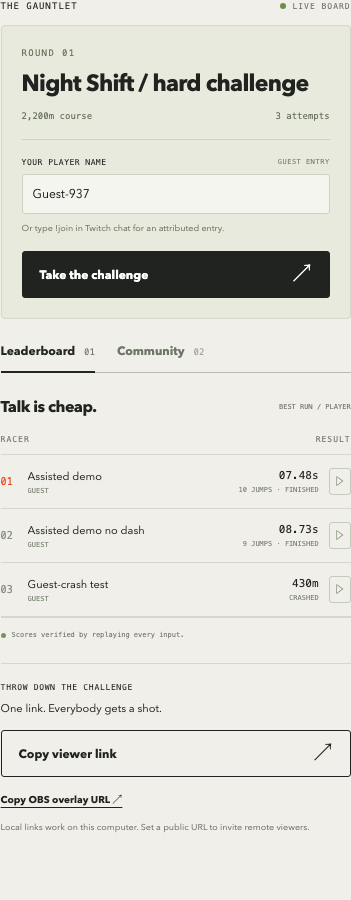
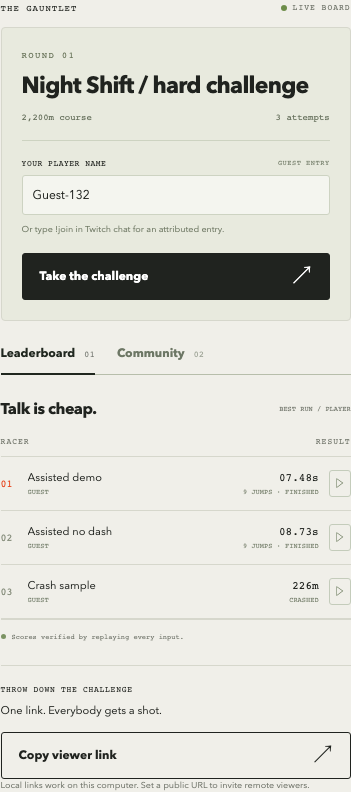
Add chat announcements, moderation, /play, and fix replay and phone runs
The bot now posts when a challenge is published and when a finished run
takes the lead, with a chat-wide !challenge cooldown and a send budget.
Hosts can remove a player from a board, and guest names pass a basic
filter. /play redirects to the active challenge.

Replays no longer overwrite the chase ghost or leave stale labels, and
the HUD follows them. Runs and replays scroll the game into view on
phones, which previously saved crashes the player never saw.

The hard course opens with a small crate and smaller early walls. Hazards
past the finish line were undrawn but could still end a run; courses after
version 1 now ignore them, while version 1 keeps its replays exact.

diff --git a/public/app.js b/public/app.js
@@ -11,7 +11,8 @@ if (overlayMode) $('overlay').hidden = false;
 let info, challenge, isHost = false, mode = viewerId ? 'challenge' : 'practice';
 let sim = initial(), map = world(sim.seed, sim.version), finish = map.finish, startState = { ...sim };
 let running = false, starting = false, raceTicket, inputs = [], history = [], savedMoment = null;
-let keys = { jump: false, dash: false }, ghost = null, ghostName = '', replayOnly = false, replayFrame = 0;
+let keys = { jump: false, dash: false }, ghost = null, ghostName = '', ghostRunId = null;
+let replayOnly = false, replayFrame = 0, replayTrace = null, replayName = '';
 let attempts = 0, toastTimer, connectionLost = false, refreshSequence = 0, playerSession;
 let joinToken = new URLSearchParams(location.search).get('join');
 let currentRunName = '';
@@ -47,9 +48,31 @@ function setMode(next) {
   updateHud();
 }
 function updateHud() {
-  $('time').replaceChildren(document.createTextNode(formatTime((sim.frame - startState.frame) / 60)), text('span', 's'));
-  $('distance').replaceChildren(document.createTextNode(String(Math.max(0, Math.round(sim.x - startState.x))).padStart(4, '0')), text('span', 'm'));
-  $('energy-value').textContent = `${Math.round(sim.energy)}%`; $('energy-fill').style.width = `${sim.energy}%`;
+  const frame = replayOnly && replayTrace ? Math.min(replayFrame, replayTrace.length - 1) : null;
+  const seconds = frame === null ? (sim.frame - startState.frame) / 60 : frame / 60;
+  const distance = frame === null ? sim.x - startState.x : replayTrace[frame].x - replayTrace[0].x;
+  const energy = frame === null ? sim.energy : replayTrace[frame].energy;
+  $('time').replaceChildren(document.createTextNode(formatTime(seconds)), text('span', 's'));
+  $('distance').replaceChildren(document.createTextNode(String(Math.max(0, Math.round(distance))).padStart(4, '0')), text('span', 'm'));
+  $('energy-value').textContent = `${Math.round(energy)}%`; $('energy-fill').style.width = `${energy}%`;
+}
+// Phones stack the game above the entry form, so a run could otherwise start off-screen.
+function showGame() {
+  const arena = document.querySelector('.arena'), controls = document.querySelector('.touch-controls');
+  const top = arena.getBoundingClientRect().top;
+  const bottom = (controls.offsetParent ? controls : arena).getBoundingClientRect().bottom;
+  if (top >= 0 && bottom <= window.innerHeight) return;
+  arena.scrollIntoView({ block: 'start', behavior: matchMedia('(prefers-reduced-motion: reduce)').matches ? 'auto' : 'smooth' });
+}
+function runResult(run) { return run.completed ? `${formatTime(run.seconds)}s` : `${Math.floor(run.distance)}m`; }
+function showGhostLabel() {
+  const top = challenge?.leaderboard[0];
+  $('ghost-label').textContent = !top ? 'Ghost replay available after the first submitted run'
+    : ghostRunId === top.id ? `Ghost to beat: ${ghostName} · ${runResult(top)}` : 'Ghost unavailable. Scores are still saved.';
+}
+function endReplay() {
+  replayOnly = false; replayTrace = null; replayName = '';
+  setMode('challenge'); showGhostLabel();
 }
 function renderScores(c) {
   const list = $('scores'); list.replaceChildren();
@@ -61,7 +84,13 @@ function renderScores(c) {
     const result = text('span', run.completed ? `${formatTime(run.seconds)}s` : `${Math.floor(run.distance)}m`, 'result'); result.append(text('small', run.completed ? `${run.jumps} JUMPS · FINISHED` : 'CRASHED'));
     const watch = text('button', '▷', 'replay-button'); watch.setAttribute('aria-label', `Watch ${run.name}'s replay`);
     watch.addEventListener('click', () => watchReplay(c.id, run.id).catch(e => toast(e.message)));
-    row.append(racer, result, watch); list.append(row);
+    row.append(racer, result, watch);
+    if (isHost) {
+      const remove = text('button', '×', 'replay-button remove-button'); remove.setAttribute('aria-label', `Remove ${run.name} from the board`);
+      remove.addEventListener('click', () => removeRun(c.id, run).catch(e => toast(e.message)));
+      row.append(remove);
+    }
+    list.append(row);
   });
 }
 function renderOverlay(c) {
@@ -76,13 +105,15 @@ function renderOverlay(c) {
 }
 async function loadGhost(c) {
   const top = c.leaderboard[0];
-  if (!top) { ghost = null; ghostName = ''; $('ghost-label').textContent = 'Ghost replay available after the first submitted run'; return; }
-  try {
-    const data = await api(`/api/replays/${c.id}/${top.id}`);
-    if (challenge?.id !== c.id) return;
-    ghost = data.trace; ghostName = data.name;
-    $('ghost-label').textContent = `Ghost to beat: ${data.name} · ${formatTime(top.seconds)}s`;
-  } catch { $('ghost-label').textContent = 'Ghost unavailable. Scores are still saved.'; }
+  ghost = null; ghostName = ''; ghostRunId = null;
+  if (top) {
+    try {
+      const data = await api(`/api/replays/${c.id}/${top.id}`);
+      if (challenge?.id !== c.id) return;
+      ghost = data.trace; ghostName = data.name; ghostRunId = top.id;
+    } catch {}
+  }
+  if (!replayOnly) showGhostLabel();
 }
 async function refresh(data) {
   info = data;
@@ -107,7 +138,6 @@ async function refresh(data) {
     if (challenge?.id === c.id) { challenge = c; renderScores(c); }
     return;
   }
-  const oldBest = challenge?.leaderboard[0]?.id;
   challenge = c;
   $('challenge-title').textContent = c.title;
   $('challenge-number').textContent = `ROUND ${String(Math.max(1, data.history.length - data.history.findIndex(x => x.id === c.id))).padStart(2, '0')}`;
@@ -117,12 +147,12 @@ async function refresh(data) {
   else $('share-note').textContent = 'Share this link with your viewers. They can play in their browser.';
   renderScores(c); renderOverlay(c);
   if (oldId !== c.id && mode === 'challenge') setMode('challenge');
-  if (oldId !== c.id || oldBest !== c.leaderboard[0]?.id) await loadGhost(c);
+  if (oldId !== c.id || ghostRunId !== (c.leaderboard[0]?.id ?? null)) await loadGhost(c);
 }
 
 async function startRun() {
   if (!challenge || running || starting) return;
-  if (replayOnly) { replayOnly = false; await refresh(info); }
+  if (replayOnly) { endReplay(); await refresh(info); }
   starting = true; $('start').disabled = true;
   try {
     if (mode === 'challenge') {
@@ -136,7 +166,7 @@ async function startRun() {
     try { localStorage.setItem('btm-name', $('player-name').value); } catch {}
     map = world(sim.seed, sim.version); startState = { ...sim }; inputs = []; history = [{ ...sim }];
     keys = { jump: false, dash: false }; savedMoment = null; $('publish').disabled = true;
-    $('game-screen').hidden = true; $('countdown').hidden = false;
+    $('game-screen').hidden = true; $('countdown').hidden = false; showGame();
     for (const value of ['3','2','1']) { $('countdown').textContent = value; await new Promise(resolve => setTimeout(resolve, 450)); }
     $('countdown').hidden = true; starting = false; running = true; attempts++; lastTime = performance.now(); accumulator = 0;
     canvas.focus({ preventScroll: true });
@@ -182,16 +212,23 @@ async function watchReplay(cid, rid) {
   const data = await api(`/api/replays/${cid}/${rid}`);
   if (challenge.id !== cid) return;
   mode = 'challenge'; setMode('challenge');
-  ghost = data.trace; ghostName = data.name; replayOnly = true; replayFrame = 0;
+  replayTrace = data.trace; replayName = data.name; replayOnly = true; replayFrame = 0; accumulator = 0;
   $('game-screen').hidden = true; $('game-mode').textContent = 'GHOST REPLAY';
   $('ghost-label').textContent = `Watching ${data.name}'s recorded run`;
+  updateHud(); showGame();
   canvas.focus({ preventScroll: true });
+}
+async function removeRun(cid, run) {
+  if (!window.confirm(`Remove ${run.name} and all of their runs from this board?`)) return;
+  await api('/api/runs/remove', { challengeId: cid, runId: run.id });
+  await refresh(await api('/api/state'));
+  toast(`${run.name} was removed from the board.`);
 }
 
 function draw() {
   const W = 1000, H = 460;
   ctx.clearRect(0, 0, W, H);
-  const camera = Math.max(0, (replayOnly && ghost ? ghost[Math.min(replayFrame, ghost.length - 1)].x : sim.x) - 180);
+  const camera = Math.max(0, (replayOnly && replayTrace ? replayTrace[Math.min(replayFrame, replayTrace.length - 1)].x : sim.x) - 180);
   const gradient = ctx.createLinearGradient(0, 0, 0, H); gradient.addColorStop(0, '#17221e'); gradient.addColorStop(1, '#233329'); ctx.fillStyle = gradient; ctx.fillRect(0,0,W,H);
   // Warehouse skyline, parallax gantries, and a perspective floor.
   ctx.strokeStyle = '#9ab8840b'; ctx.lineWidth = 1;
@@ -235,9 +272,10 @@ function draw() {
     if(!isGhost){ctx.fillStyle='#16251b';ctx.fillRect(x+17,y+9,4,3);}
     ctx.restore();
   };
-  if (mode === 'challenge' && ghost) {
+  const shownGhost = replayOnly ? replayTrace : mode === 'challenge' ? ghost : null;
+  if (shownGhost) {
     const frame = replayOnly ? replayFrame : Math.max(0, sim.frame-startState.frame);
-    if (frame < ghost.length) {drawPlayer(ghost[frame],true);const p=ghost[frame];ctx.fillStyle='#9fc1d99c';ctx.font='9px monospace';ctx.fillText(replayOnly ? ghostName : 'GHOST',p.x-camera-2,p.y-12);}
+    if (frame < shownGhost.length) {const p=shownGhost[frame];drawPlayer(p,true);ctx.fillStyle='#9fc1d99c';ctx.font='9px monospace';ctx.fillText(replayOnly ? replayName : 'GHOST',p.x-camera-2,p.y-12);}
   }
   if (!replayOnly) drawPlayer(sim);
   if(sim.status==='crashed'&&!replayOnly){ctx.strokeStyle='#ff7955';ctx.lineWidth=2;for(let n=0;n<8;n++){const a=n*Math.PI/4;ctx.beginPath();ctx.moveTo(sim.x-camera+13+Math.cos(a)*28,sim.y+16+Math.sin(a)*28);ctx.lineTo(sim.x-camera+13+Math.cos(a)*37,sim.y+16+Math.sin(a)*37);ctx.stroke();}}
@@ -247,7 +285,7 @@ let lastTime=performance.now(), accumulator=0, lastPaint=0;
 function loop(now) {
   const dt=Math.min(100,now-lastTime);lastTime=now;
   if(running){accumulator+=dt;while(accumulator>=1000/60&&running){const input=(keys.jump?1:0)|(keys.dash?2:0);inputs.push(input);sim=step(sim,input,map,finish);if(sim.status==='running'){history.push({...sim});if(history.length>240)history.shift();}accumulator-=1000/60;if(sim.status!=='running')endRun();else if(inputs.length>=MAX_TICKS){running=false;toast('Run limit reached. Start again.');screen('TIME OUT','Fresh start?','This run exceeded the time limit.');}} updateHud();}
-  if(replayOnly){accumulator+=dt;while(accumulator>=1000/60){replayFrame++;accumulator-=1000/60;if(replayFrame>=ghost.length){replayOnly=false;screen('GHOST REPLAY COMPLETE','Your move.',`That was ${ghostName}’s run. Now chase it.`);refresh(info);break;}}}
+  if(replayOnly){accumulator+=dt;while(replayOnly&&accumulator>=1000/60){replayFrame++;accumulator-=1000/60;if(replayFrame>=replayTrace.length){const name=replayName;endReplay();screen('GHOST REPLAY COMPLETE','Your move.',`That was ${name}’s run. Now chase it.`);refresh(info);}}if(replayOnly)updateHud();}
   if(!overlayMode&&(running||replayOnly||now-lastPaint>100)){draw();lastPaint=now;}requestAnimationFrame(loop);
 }
 

diff --git a/public/engine.js b/public/engine.js
@@ -8,6 +8,11 @@ export function world(seed = 41, version = VERSION) {
   const rnd = () => { s = (Math.imul(s, 1664525) + 1013904223) >>> 0; return s / 4294967296; };
   const obstacles = [];
   let x = version === 1 ? 360 : 340;
+  if (version >= 2) {
+    // A small opening crate teaches the jump before the course gets hard.
+    obstacles.push({ x, w: 28, h: 30 });
+    x += 220;
+  }
   while (x < 3400) {
     if (version === 1) {
       // Preserve the original layout exactly for saved challenges and replays.
@@ -17,7 +22,9 @@ export function world(seed = 41, version = VERSION) {
     }
     const kind = Math.floor(rnd() * 3);
     if (kind === 0) {
-      obstacles.push({ x, w: 32 + Math.floor(rnd() * 9), h: 62 + Math.floor(rnd() * 12) });
+      const w = 32 + Math.floor(rnd() * 9), h = 62 + Math.floor(rnd() * 12);
+      // Walls reach full size only after the first stretch of the course.
+      obstacles.push(x < 1000 ? { x, w: 32, h: 62 } : { x, w, h });
     } else if (kind === 1) {
       const width = 23 + Math.floor(rnd() * 5), gap = 15 + Math.floor(rnd() * 7);
       obstacles.push({ x, w: width, h: 25 + Math.floor(rnd() * 7) });
@@ -56,7 +63,9 @@ export function step(s, input, map = world(s.seed, s.version), finish = map.fini
   if (y >= FLOOR - PLAYER.h) { y = FLOOR - PLAYER.h; vy = 0; }
   const energy = Math.max(0, Math.min(100, s.energy + (boosting ? -1.8 : 0.65)));
   let status = x >= finish ? 'finished' : 'running';
-  if (map.obstacles.some(o => x + PLAYER.w > o.x && x < o.x + o.w && y + PLAYER.h > FLOOR - o.h && y < FLOOR)) status = 'crashed';
+  // Version 1 keeps its original collisions so saved replays stay exact. Later courses ignore hazards past the finish, which are never drawn.
+  const hazards = s.version === 1 ? map.obstacles : map.obstacles.filter(o => o.x <= finish);
+  if (hazards.some(o => x + PLAYER.w > o.x && x < o.x + o.w && y + PLAYER.h > FLOOR - o.h && y < FLOOR)) status = 'crashed';
   return { ...s, x, y, vy, energy, frame: s.frame + 1, jumps, jumpHeld: jump, status };
 }
 
@@ -65,11 +74,11 @@ export function replay(snapshot, inputs, finish = world(snapshot.seed, snapshot.
     || inputs.some(n => !Number.isInteger(n) || n < 0 || n > 3)) throw new Error('Invalid run data.');
   const map = world(snapshot.seed, snapshot.version);
   let state = { ...snapshot };
-  const trace = [{ x: state.x, y: state.y }];
+  const trace = [{ x: state.x, y: state.y, energy: state.energy }];
   for (let i = 0; i < inputs.length; i++) {
     if (state.status !== 'running') throw new Error('Run continues after its finish.');
     state = step(state, inputs[i], map, finish);
-    trace.push({ x: state.x, y: state.y });
+    trace.push({ x: state.x, y: state.y, energy: state.energy });
   }
   if (state.status === 'running') throw new Error('Finish or crash before submitting.');
   return { state, trace, ticks: inputs.length, seconds: inputs.length / 60, distance: Math.min(finish - snapshot.x, state.x - snapshot.x), completed: state.status === 'finished', jumps: state.jumps - snapshot.jumps };

diff --git a/public/style.css b/public/style.css
@@ -3,3 +3,4 @@
 body.broadcast-mode .intro,body.broadcast-mode .how-it-works,body.broadcast-mode footer{display:none}body.broadcast-mode main{padding-top:24px;max-width:1600px}body.broadcast-mode .topbar{height:62px}body.broadcast-mode .workspace{gap:26px}body.broadcast-mode .share-card{margin-top:18px}body.broadcast-mode .host-tools{margin-top:12px}
 
 .arena-levels{display:flex;align-items:center;gap:10px}.difficulty-chip{font:9px var(--mono,monospace);letter-spacing:.08em;color:#ff9273;border:1px solid #ff613b55;padding:6px 8px;white-space:nowrap}.board-tabs{display:flex;border-bottom:1px solid #b7beab;margin-top:24px;gap:22px}.board-tabs button{appearance:none;border:0;border-bottom:2px solid transparent;margin-bottom:-1px;padding:0 0 12px;background:none;cursor:pointer;font:700 12px var(--sans,sans-serif);color:#6d7765}.board-tabs button[aria-selected=true]{border-bottom-color:#20271f;color:#20271f}.board-tabs button span{font:9px var(--mono,monospace);margin-left:6px;font-weight:400;opacity:.6}.board-tabs button:focus-visible{outline:2px solid #ff613b;outline-offset:4px}.community-panel{padding-top:22px}.community-panel h3{font-size:27px;line-height:1.05;letter-spacing:-.055em;margin:14px 0}.community-panel>p{font-size:12px;line-height:1.65;color:#737d6a;margin:0 0 20px}.community-tags{display:grid;gap:9px}.community-tags>div{display:flex;align-items:center;gap:12px;border:1px solid #ccd0c0;padding:13px 12px;color:#20271f;background:#e9ecdf}.tag-avatar{display:grid;place-items:center;width:35px;height:35px;background:#25342a;color:#d6ff7e;font:11px var(--mono,monospace)}.community-tags strong{display:block;font-size:14px;letter-spacing:-.025em}.community-tags small{display:block;font:8px var(--mono,monospace);letter-spacing:.1em;color:#78836b;margin-top:5px}.community-note{display:block;margin:13px 0 0;font-size:10px;line-height:1.6;color:#737d6a}.community-invite{border-top:1px solid #ccd0c0;margin-top:22px;padding-top:18px}.community-invite strong{font-size:12px}.community-invite p{font-size:11px;line-height:1.65;color:#737d6a}.community-invite code{color:#263b26}[role=tabpanel][hidden]{display:none}@media(max-width:600px){.difficulty-chip{font-size:7px;padding:5px}.arena-levels{gap:5px}.community-panel h3{font-size:28px}}
+.remove-button{color:#a44a32;line-height:1}

diff --git a/README.md b/README.md
@@ -10,7 +10,7 @@ The idea is to give Twitch communities another way to participate in the moment 
 
 ![The playable challenge and community leaderboard](docs/images/challenge.png)
 
-**[Play the hosted game](https://beat-the-moment-35-211-225-40.sslip.io)** · [GCP deployment](deploy/GCP.md)
+**[Play the live challenge](https://beat-the-moment-35-211-225-40.sslip.io/play)** · [GCP deployment](deploy/GCP.md)
 
 [Watch the narrated prototype draft](demo/beat-this-moment-draft.mp4) · [Demo outline](demo/DEMO-SCRIPT.md) · [Verification notes](QA.md)
 
@@ -53,15 +53,15 @@ flowchart LR
 
 ## Gameplay gallery
 
-**The hard course, captured directly from the running game.** The current round, Night Shift, is a 2,200m course with 13 hazards: tall walls, wide barriers, and double stacks with tight jump windows. The original 1,600m, six-hazard course is kept as course version 1, so earlier challenge links and ghost replays still play exactly as recorded. This is the start of the assisted demo run's ghost replay.
+**The hard course, captured directly from the running game.** The current round, Night Shift, is a 2,200m course with 12 hazards: a small opening crate to teach the jump, then tall walls, wide barriers, and double stacks with tight jump windows. The original 1,600m, six-hazard course is kept as course version 1, so earlier challenge links and ghost replays still play exactly as recorded.
 
 ![The Neon Freight hard course with the leading ghost](docs/images/gameplay.png)
 
-**A winning run to chase.** The ghost replay follows the recorded inputs through the final double stack toward the finish. The assisted demo run, an input search over the real simulation and labeled as such on the board, completed the course in 7.48 seconds with ten jumps.
+**A winning run to chase.** The ghost replay follows the recorded inputs through the final hazards toward the finish.
 
 ![The winning ghost approaching the finish line](docs/images/ghost-replay.png)
 
-**The community board.** Completed runs rank above crashes; each entry can be replayed.
+**The community board.** Completed runs rank above crashes; each entry can be replayed. These screenshots come from a local test server, with sample runs that are labeled as such: an input search over the real simulation and a deliberate crash. The hosted board holds only real attempts.
 
 ![Challenge entry and server-verified community leaderboard](docs/images/leaderboard.png)
 
@@ -138,9 +138,13 @@ The game works without Twitch. To demonstrate the live integration:
    - `!challenge`: replies with the active challenge link.
    - `!join`: replies with a single-use, ten-minute entry link attributed to the chatter. Subsequent retries in the same page retain that identity for one hour.
 
+The bot also posts on its own when you publish a challenge and when a finished run takes the lead on the active challenge. Lead announcements are spaced at least 30 seconds apart and name the latest leader. To keep a busy chat readable, `!challenge` replies at most once every 15 seconds, since everyone can see the link, and all bot messages share a budget of 15 every 30 seconds.
+
 The integration uses a broadcaster user access token with `user:read:chat user:write:chat`, an EventSub WebSocket subscription to `channel.chat.message`, and the Send Chat Message API. Tokens are validated at connection and every 55 minutes and refreshed when needed. By default they stay in memory and are discarded on restart. Set `TWITCH_TOKEN_FILE` and `TWITCH_OWNER_CHANNEL` to save them in a private file and restore the owning broadcaster after restart. The file must be outside the public directory; it is written with mode 0600, and disconnecting Twitch deletes it. Browser host sessions still require sign-in after a restart. EventSub reconnects after interruptions; missed Twitch events are not replayed. Chat replies have a per-user ten-second cooldown and are deduplicated.
 
 Set `TWITCH_OWNER_CHANNEL` to your owning Twitch login. With this set, the owner can sign in directly with Twitch, without copying the host key into the browser. The callback checks a short-lived HttpOnly OAuth nonce cookie and a single-use state, validates the token and scopes with Twitch, and checks the exact owner login before granting a host session. Other Twitch accounts cannot take over the broadcaster connection or host desk. Leave this setting empty to require an existing host session before starting Twitch authorization.
+
+**Moderation:** guest names pass a basic filter for common slurs, and `BLOCKED_NAMES` adds your own comma-separated terms. The filter will miss things, so the host desk shows a remove button beside each board entry. It removes all of that player's runs from that challenge. Twitch names are not filtered.
 
 **Identity limitation:** `!join` links are bearer links visible in chat. Someone who copies another person's unused link can claim it. The label means “Twitch chat entry,” not independently authenticated browser ownership. Guests have no verified identity. A public competitive release should use viewer OAuth and account-bound sessions.
 
@@ -166,7 +170,7 @@ npm test
 npm run check
 ```
 
-Tests cover deterministic courses, the harder course version and its upgrade path, completable jump/dash mechanics, restoration from mid-jump snapshots, replay equivalence, malformed/incomplete run rejection, ranking, host authorization, cross-origin rejection, independent guest entry, duplicate submission prevention and persistence across restarts.
+Tests cover deterministic courses, the harder course version and its upgrade path, completable jump/dash mechanics, restoration from mid-jump snapshots, replay equivalence, malformed/incomplete run rejection, ranking, host authorization, cross-origin rejection, independent guest entry, duplicate submission prevention, persistence across restarts, chat announcements and cooldowns, name filtering, and host removal.
 
 Server-side replay prevents fabricated scores but **does not prevent bots, tool-assisted inputs, name impersonation, or determined cheating**. There is no prize/payment system. Twitch OAuth and live chat require your own app credentials and broadcaster authorization, and must be tested with an actual Twitch channel before a hackathon submission.
 

diff --git a/demo/DEMO-SCRIPT.md b/demo/DEMO-SCRIPT.md
@@ -14,11 +14,11 @@ Launch a practice run. Jump with Space and dash with Shift. After a crash, selec
 
 ## 0:40–1:05 — Twitch connection
 
-Show the connected channel status. In the channel's chat, send `!challenge` and show the bot returning the playable URL. Open that link as the viewer. Only claim this live behavior when the reply is visibly present.
+Show the connected channel status and the bot's automatic post when the challenge is published. In the channel's chat, send `!challenge` and show the bot returning the playable URL. Open that link as the viewer. Only claim this live behavior when the reply is visibly present.
 
 ## 1:05–1:40 — Viewer attempts and verification
 
-Enter a demo player name and take the challenge. Show the resulting score on the shared board. Explain: “The server replays the inputs to verify the result.” Completed runs rank ahead of crashes, with completion time deciding the winner.
+Enter a demo player name and take the challenge. Show the resulting score on the shared board, and the bot's chat post if the run takes the lead. Explain: “The server replays the inputs to verify the result.” Completed runs rank ahead of crashes, with completion time deciding the winner.
 
 ## 1:40–1:55 — Replay
 

diff --git a/deploy/GCP.md b/deploy/GCP.md
@@ -52,7 +52,7 @@ sudo journalctl -u beat-this-moment -n 50 --no-pager
 curl -fsS http://127.0.0.1:3000/healthz
 ```
 
-`gcp-startup.sh` bootstraps a fresh Debian 12 VM. `gcp-install.sh` installs an application archive and private environment file. The latter expects a hostname, a runtime tar path, and a private configuration path. Do not include credentials in instance metadata, startup scripts, source archives, or the repository. Review an update before installing it; preserve the existing state directory.
+`gcp-startup.sh` bootstraps a fresh Debian 12 VM. `gcp-install.sh` installs an application archive and private environment file. The latter expects a hostname, a runtime tar path, and a private configuration path. Do not include credentials in instance metadata, startup scripts, source archives, or the repository. Review an update before installing it; preserve the existing state directory. The runtime archive must contain `package.json`, `server.mjs`, `twitch.mjs`, `moderation.mjs`, and `public/`.
 
 ## Stop and remove
 
